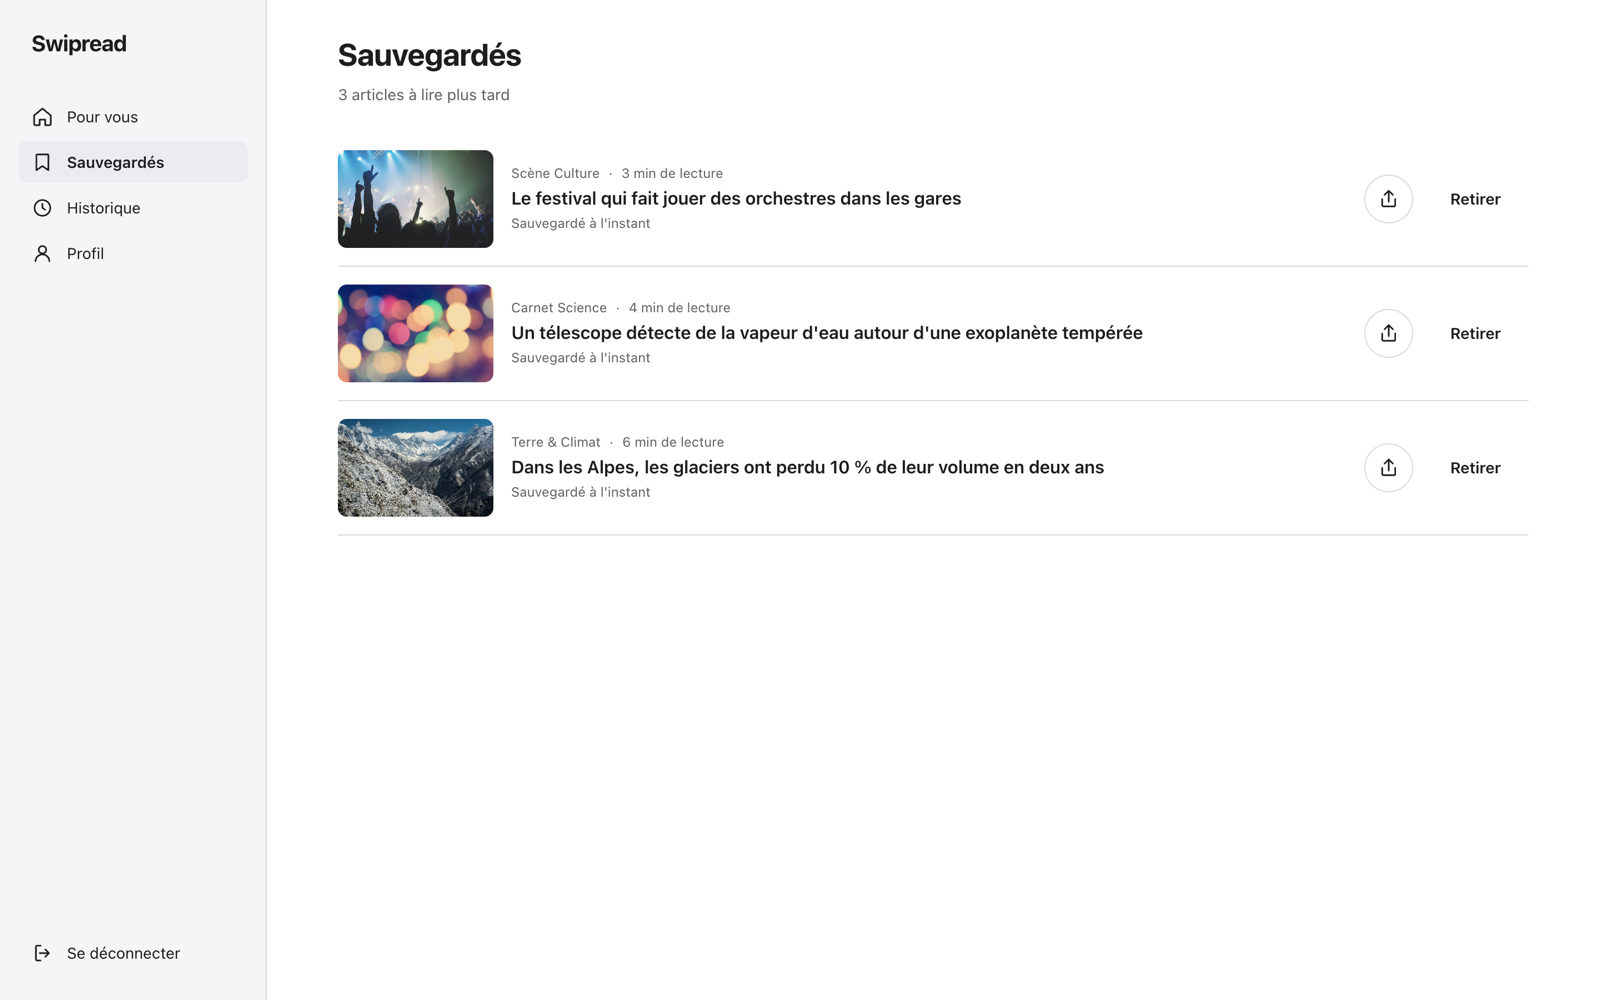
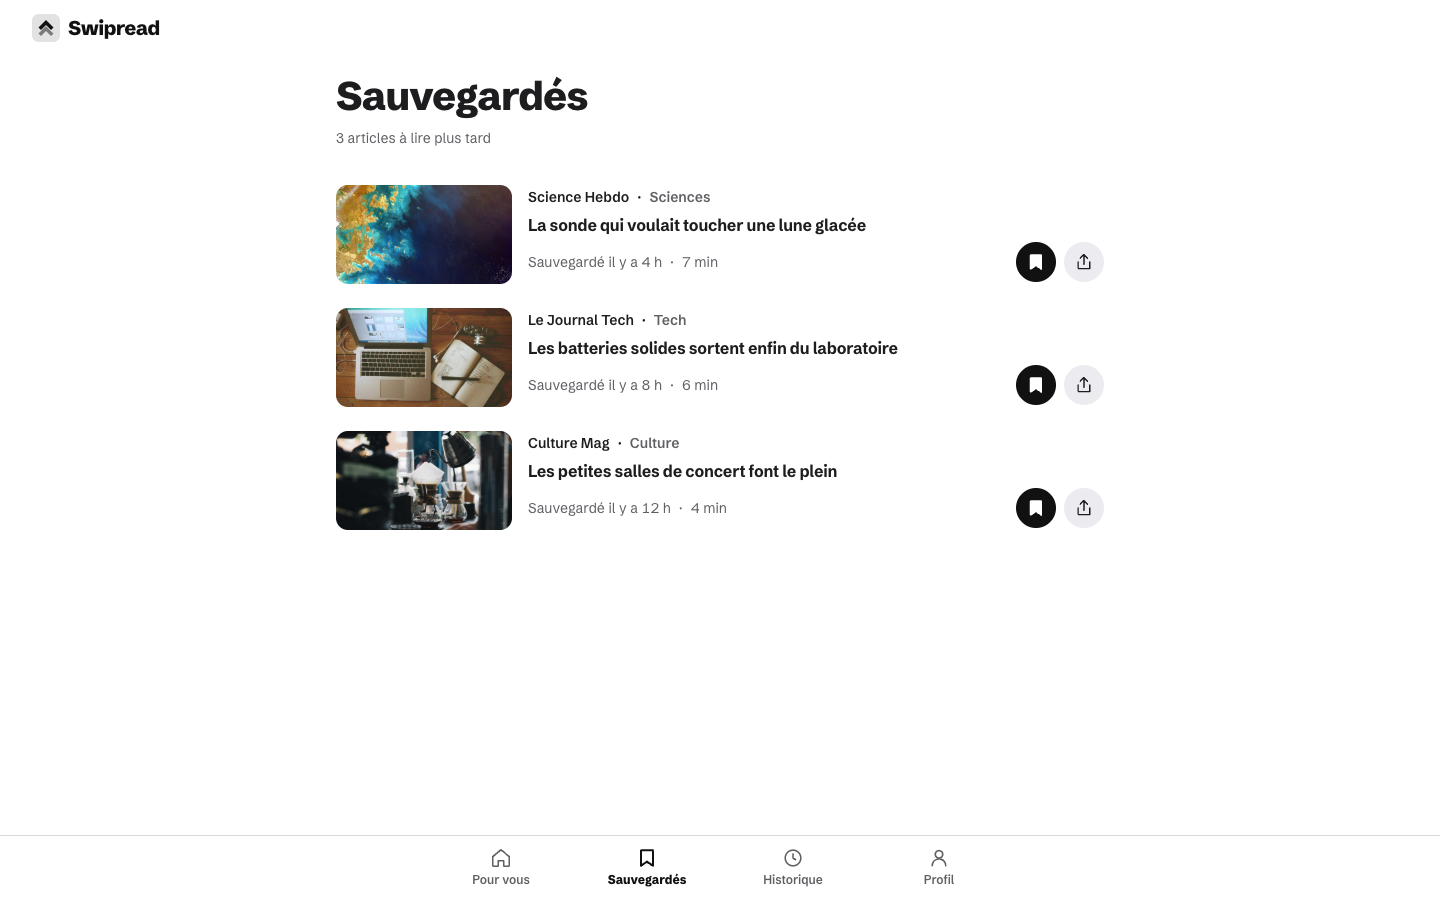
docs: screenshots of the redesign with demo data, motion and the light in the README

diff --git a/README.md b/README.md
@@ -58,14 +58,16 @@ The web app never ranks articles itself. It shows the pages the API serves from 
 | For readers | For administrators | Under the hood |
 | --- | --- | --- |
 | Sign up, pick at least three topics | Add RSS/Atom sources with one to three ordered topics (the API checks the feed first) | Typed API client generated from OpenAPI |
-| Full-screen feed: scroll, swipe or ↑/↓ | Activate, deactivate, retopic or delete sources; see each feed's last read | Batched event tracking with a `keepalive` final flush |
+| Full-screen feed: scroll, swipe or ↑/↓; each card lit by its article's image and saying why it is recommended | Activate, deactivate, retopic or delete sources; see each feed's last read | Batched event tracking with a `keepalive` final flush |
 | Like, save, share, « not interested » | Create and rename topics, with article and reader counts | 15-minute access token renewed silently, across tabs |
-| Saved list and reading history | Admin-only routes and navigation | Light and dark themes, reduced motion, keyboard and screen reader support |
+| Saved list and reading history, with save and share from both | Admin-only routes and navigation | Light and dark themes, reduced motion, keyboard and screen reader support |
 | Edit name and topics, delete the account | | Every screen handles loading, errors with retry, and empty states |
 
 ## How it works
 
 **One card per screen.** The feed is a CSS `scroll-snap` container. An `IntersectionObserver` tracks the card on screen, the next page is fetched when three cards remain, and the position is restored when you come back. The arrow keys move between cards, with smooth scrolling turned off for readers who prefer reduced motion. → [Feed](docs/features/feed.md)
+
+**Every article sets its own light.** The « Ambiance » direction keeps the interface ink-only and takes all colour from the content: the screen behind each card is the article's own image, blurred and veiled (or its topic's colours when there is none), and it crossfades as you scroll. The veils guarantee the text's contrast on any image. → [Design](docs/design.md)
 
 **Every interaction is a signal.** Impressions, time spent on each card (excluding hidden-tab time), opens, reading time on the source's site, likes, saves, shares and hides are queued, sent in batches of up to 100 every 5 seconds, retried on failure, and flushed with `fetch(…, { keepalive: true })` when the tab closes. → [Tracking](docs/features/tracking.md)
 

diff --git a/docs/design.md b/docs/design.md
@@ -72,7 +72,7 @@ Main text meets WCAG AAA (7:1) in both themes, secondary text AA everywhere and 
 
 ## Motion
 
-One authored moment: when the active article changes, the ambiance layers crossfade (`--duration-ambient`, 700 ms, `--ease-out-expo`) and the incoming photo settles from 96 % scale. Everything else is short state feedback (pressed actions scale to 92 %). With `prefers-reduced-motion`, the light changes at once and nothing moves.
+One authored moment: when the active article changes, the new ambiance layer fades in on top of the old one (`--duration-ambient`, 700 ms, `--ease-out-expo`) while the old one stays full underneath, then goes out over a short 250 ms tail, so the light never dips between two articles; the incoming photo settles from 96 % scale and 60 % opacity at the same time. The sign-in panel uses the same handover for the topics' colours taking turns. A chosen topic tile lights up over the same 700 ms, its label switching from ink to white in one step about a tenth of the way in, so it never passes through the ground's own value. Everything else is short state feedback (pressed actions scale to 92 %, the toast enters from 8 px above). With `prefers-reduced-motion`, the light changes at once, the sign-in panel holds its first colour and nothing moves.
 
 ## Voice
 
